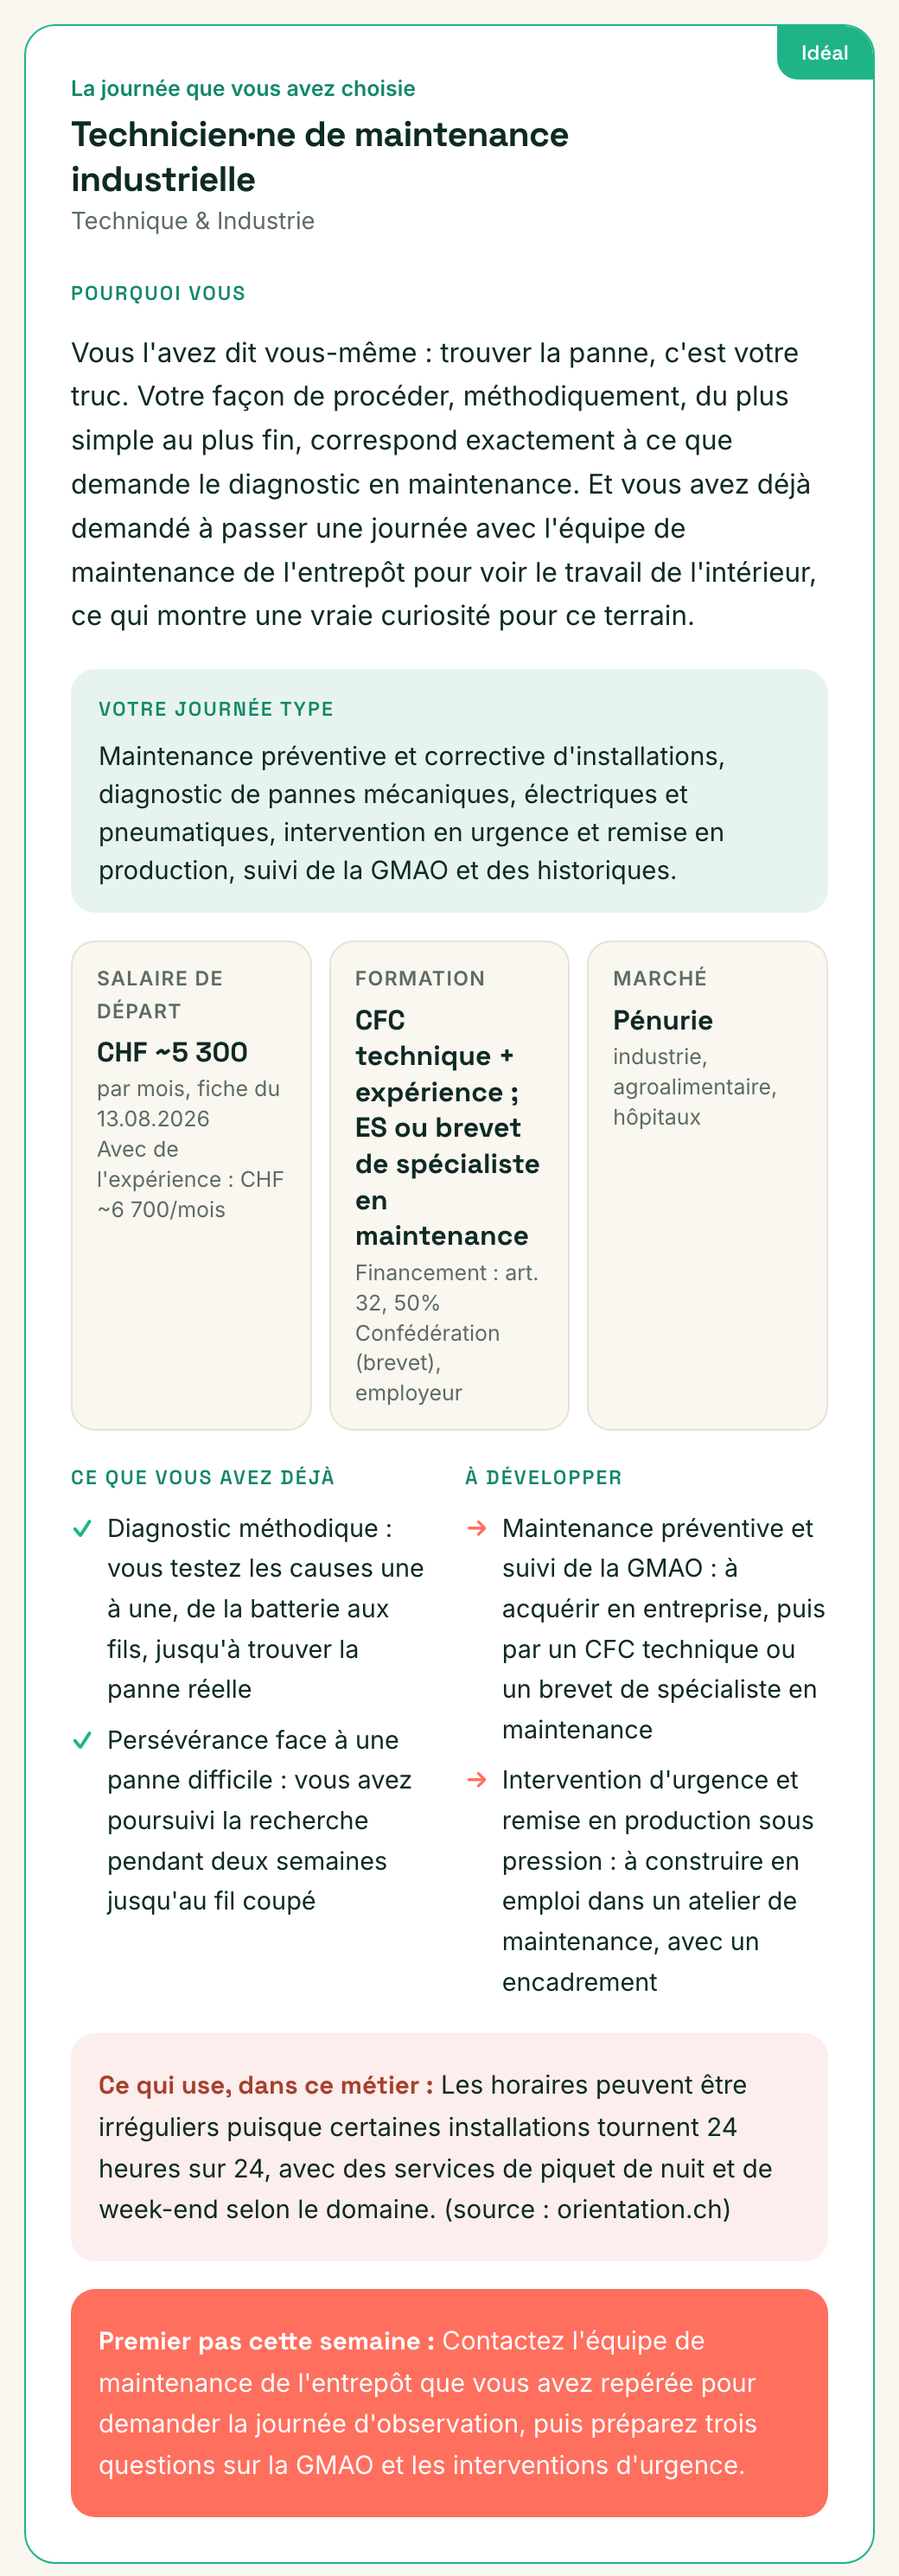
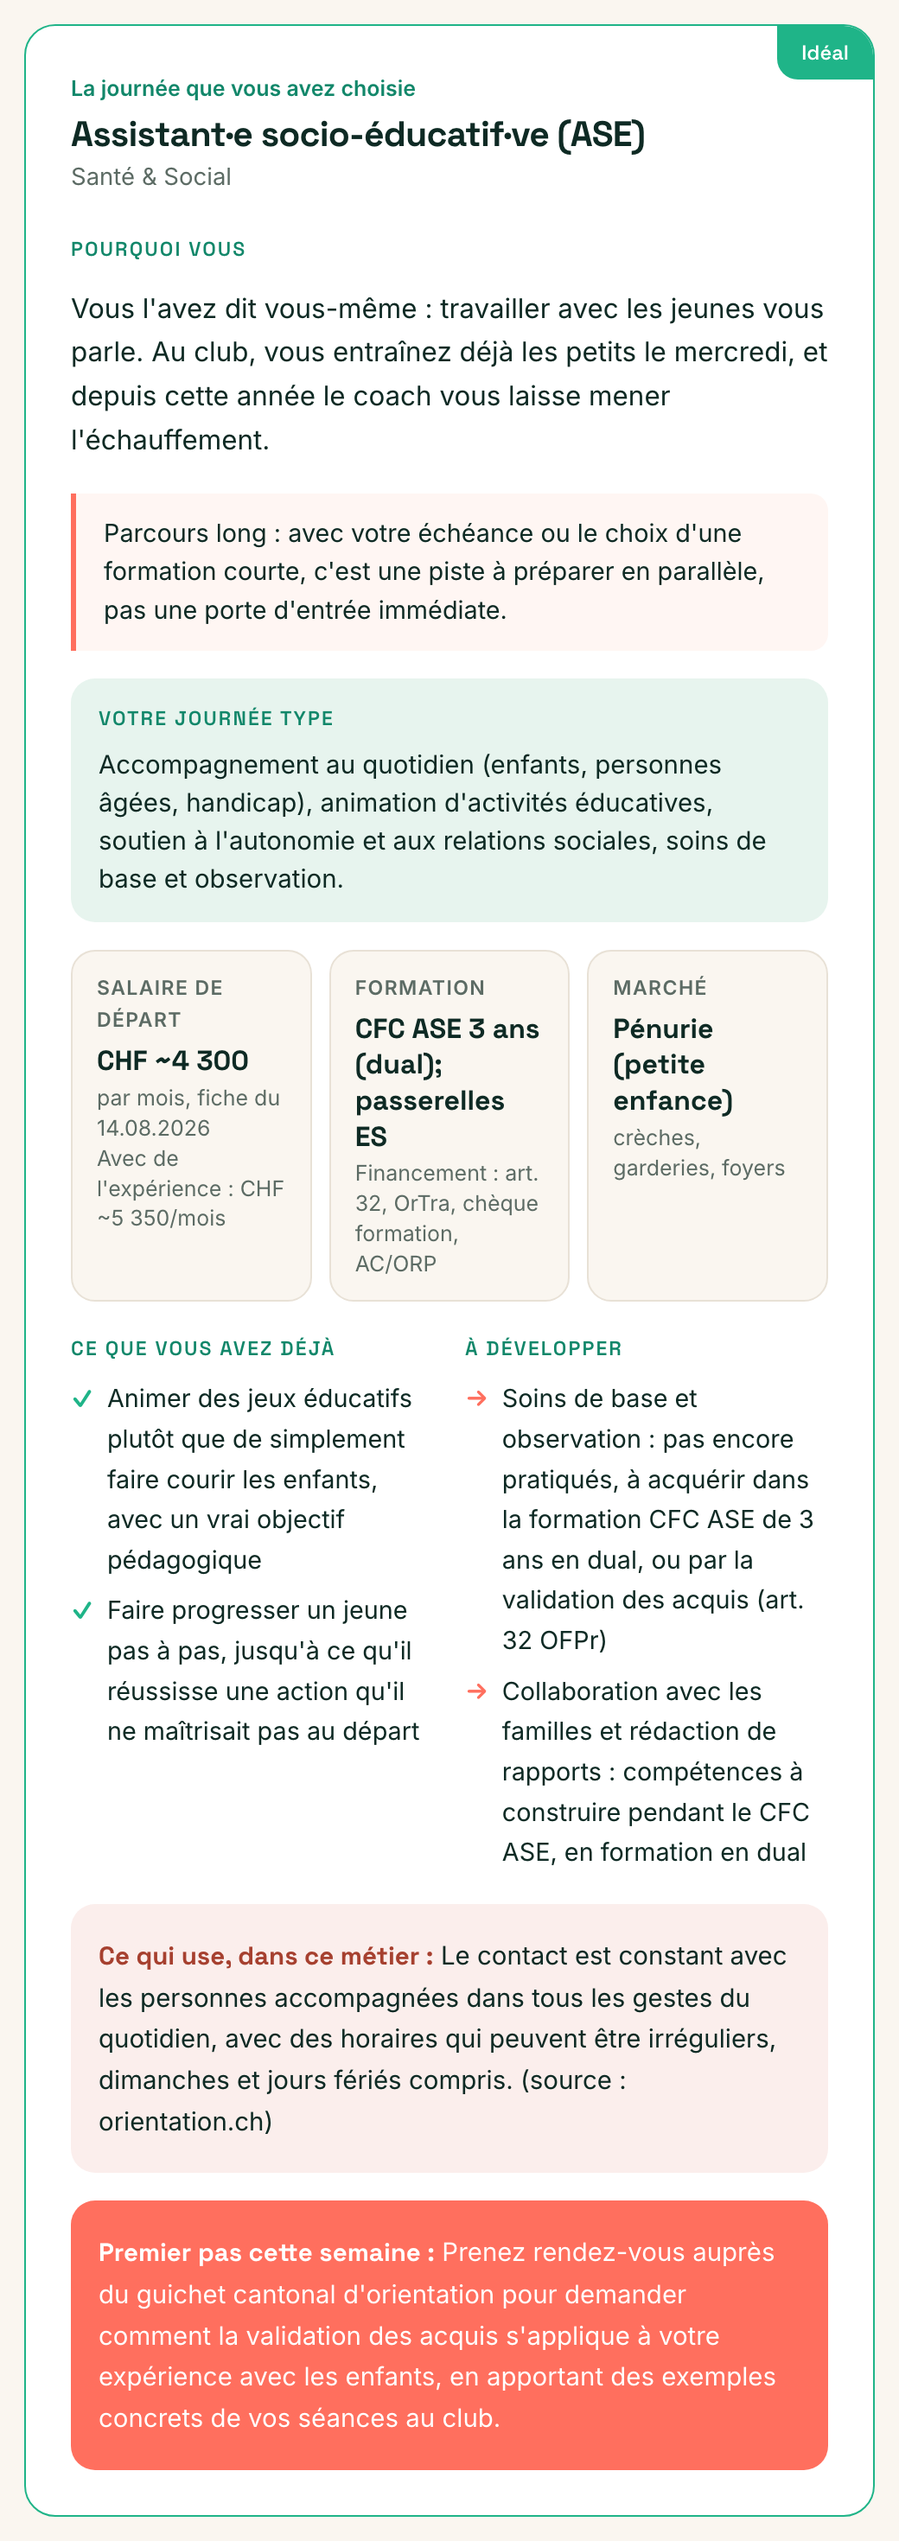
maj: site Cynth.IA

diff --git a/cynthia_v2.html b/cynthia_v2.html
@@ -2025,12 +2025,13 @@ textarea.chat-input{
 
   
   
+  
   <section id="lp-extrait" class="lp-sec"><div class="lp-wrap">
-    <div class="lp-sechead lp-rv"><h2>Ce n'est pas une liste de métiers. <span class="lp-accent">C'est un dossier qui vous ressemble.</span></h2><p>Un exemple tiré d'un entretien de test : les réponses ont été écrites par notre équipe, la fiche est celle que Cynthia a réellement produite.</p></div>
+    <div class="lp-sechead lp-rv"><h2>Ce n'est pas une liste de métiers. <span class="lp-accent">C'est un dossier qui vous ressemble.</span></h2><p>Pour chaque métier proposé : ce que vous feriez au quotidien, ce que vous gagneriez, comment y arriver. Et la source de chaque chiffre, pour que vous puissiez vérifier.</p><p style="font-size:.85em;opacity:.75;margin-top:6px">Exemple réel de fiche, issu d'un entretien de test.</p></div>
     <div class="lp-rex lp-rv" style="max-width:420px;margin:0 auto;">
       <div class="lp-rex-imgcard">
-        <img src="rapport_extrait_metier.png" alt="Exemple tiré d'un entretien de test : fiche métier Technicien·ne de maintenance industrielle, marquée « Idéal » (la journée choisie), salaire de départ CHF ~5 300/mois et CHF ~6 700/mois avec l'expérience, formation CFC technique puis brevet de spécialiste, marché en pénurie, ce qui use dans ce métier, premier pas de la semaine." loading="lazy">
-        <p>Une fiche métier complète : pourquoi vous, salaire sourcé et daté, formation, marché, ce qui use, premier pas de la semaine.</p>
+        <img src="rapport_extrait_metier.png" alt="Exemple réel de fiche, issu d'un entretien de test : fiche métier Assistant·e socio-éducatif·ve (ASE), marquée « Idéal » (la journée choisie), journée type, salaire de départ CHF ~4 300/mois et CHF ~5 350/mois avec l'expérience, formation CFC ASE 3 ans en dual, marché en pénurie dans la petite enfance, ce qui use dans ce métier, premier pas de la semaine." loading="lazy">
+        <p>Une fiche métier complète : pourquoi vous, journée type, salaire sourcé et daté, formation, marché, ce qui use, premier pas de la semaine.</p>
       </div>
     </div>
     <div class="lp-stats4 lp-rv">

diff --git a/index.html b/index.html
@@ -2025,12 +2025,13 @@ textarea.chat-input{
 
   
   
+  
   <section id="lp-extrait" class="lp-sec"><div class="lp-wrap">
-    <div class="lp-sechead lp-rv"><h2>Ce n'est pas une liste de métiers. <span class="lp-accent">C'est un dossier qui vous ressemble.</span></h2><p>Un exemple tiré d'un entretien de test : les réponses ont été écrites par notre équipe, la fiche est celle que Cynthia a réellement produite.</p></div>
+    <div class="lp-sechead lp-rv"><h2>Ce n'est pas une liste de métiers. <span class="lp-accent">C'est un dossier qui vous ressemble.</span></h2><p>Pour chaque métier proposé : ce que vous feriez au quotidien, ce que vous gagneriez, comment y arriver. Et la source de chaque chiffre, pour que vous puissiez vérifier.</p><p style="font-size:.85em;opacity:.75;margin-top:6px">Exemple réel de fiche, issu d'un entretien de test.</p></div>
     <div class="lp-rex lp-rv" style="max-width:420px;margin:0 auto;">
       <div class="lp-rex-imgcard">
-        <img src="rapport_extrait_metier.png" alt="Exemple tiré d'un entretien de test : fiche métier Technicien·ne de maintenance industrielle, marquée « Idéal » (la journée choisie), salaire de départ CHF ~5 300/mois et CHF ~6 700/mois avec l'expérience, formation CFC technique puis brevet de spécialiste, marché en pénurie, ce qui use dans ce métier, premier pas de la semaine." loading="lazy">
-        <p>Une fiche métier complète : pourquoi vous, salaire sourcé et daté, formation, marché, ce qui use, premier pas de la semaine.</p>
+        <img src="rapport_extrait_metier.png" alt="Exemple réel de fiche, issu d'un entretien de test : fiche métier Assistant·e socio-éducatif·ve (ASE), marquée « Idéal » (la journée choisie), journée type, salaire de départ CHF ~4 300/mois et CHF ~5 350/mois avec l'expérience, formation CFC ASE 3 ans en dual, marché en pénurie dans la petite enfance, ce qui use dans ce métier, premier pas de la semaine." loading="lazy">
+        <p>Une fiche métier complète : pourquoi vous, journée type, salaire sourcé et daté, formation, marché, ce qui use, premier pas de la semaine.</p>
       </div>
     </div>
     <div class="lp-stats4 lp-rv">
